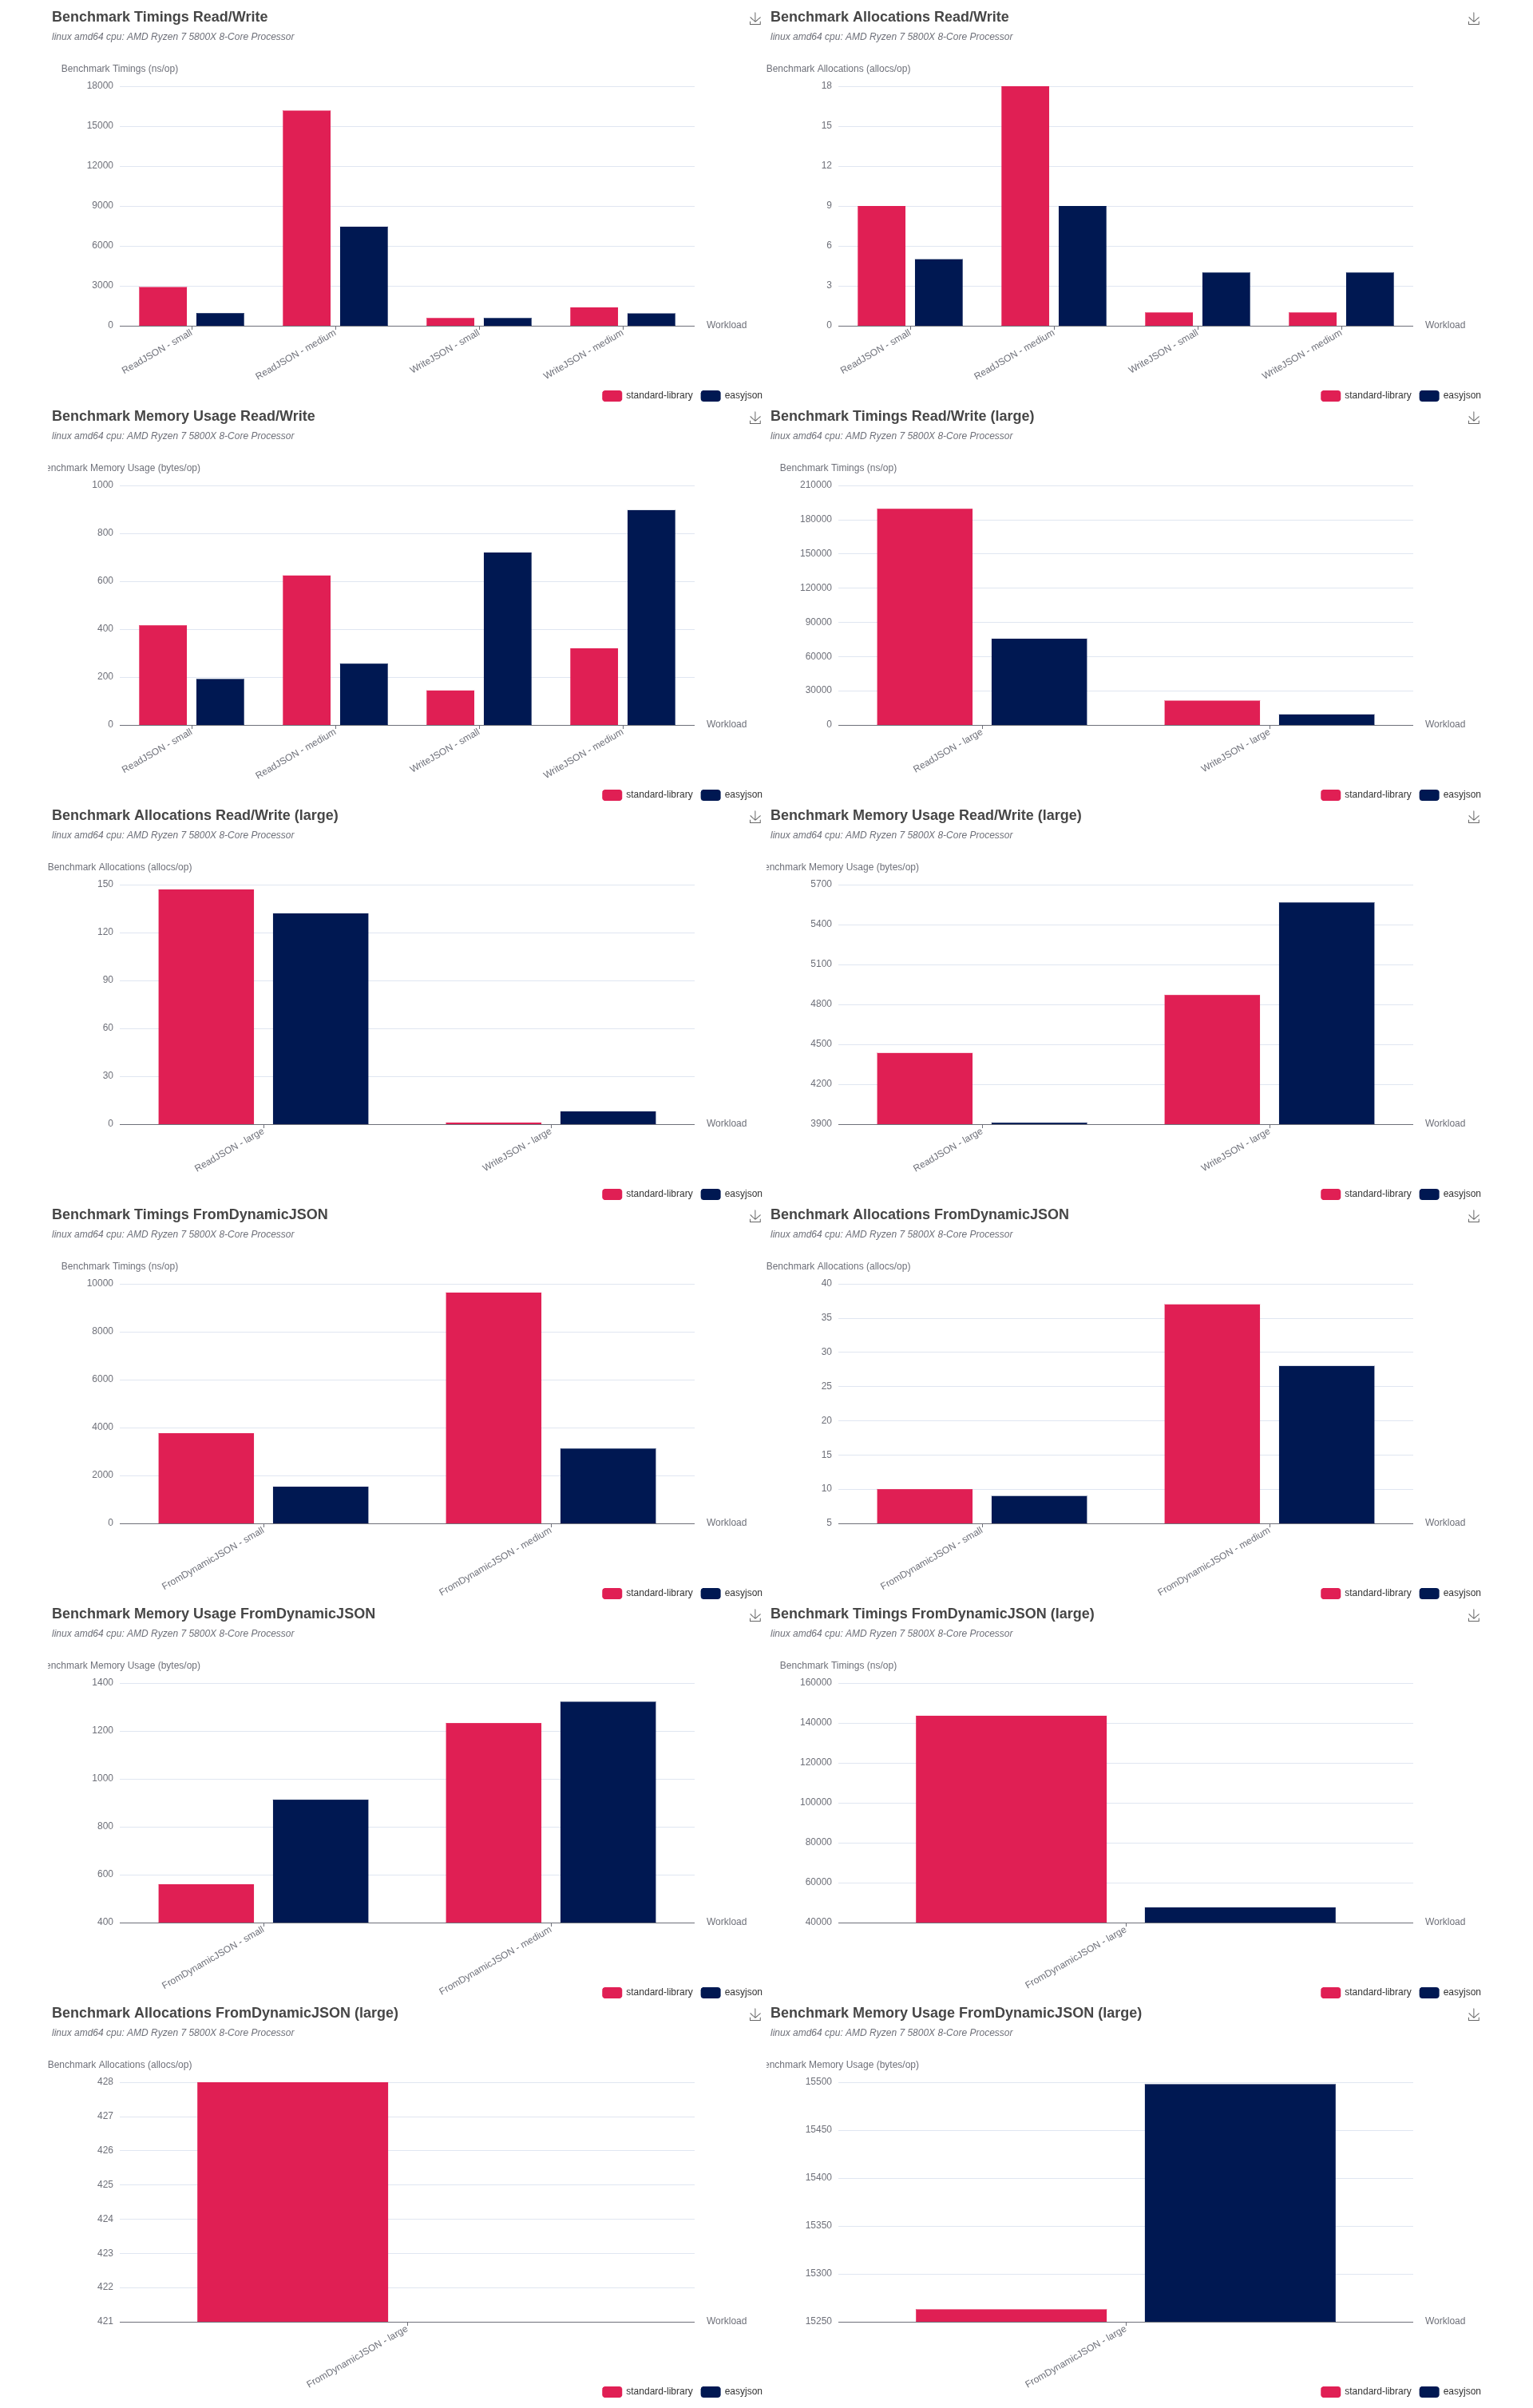
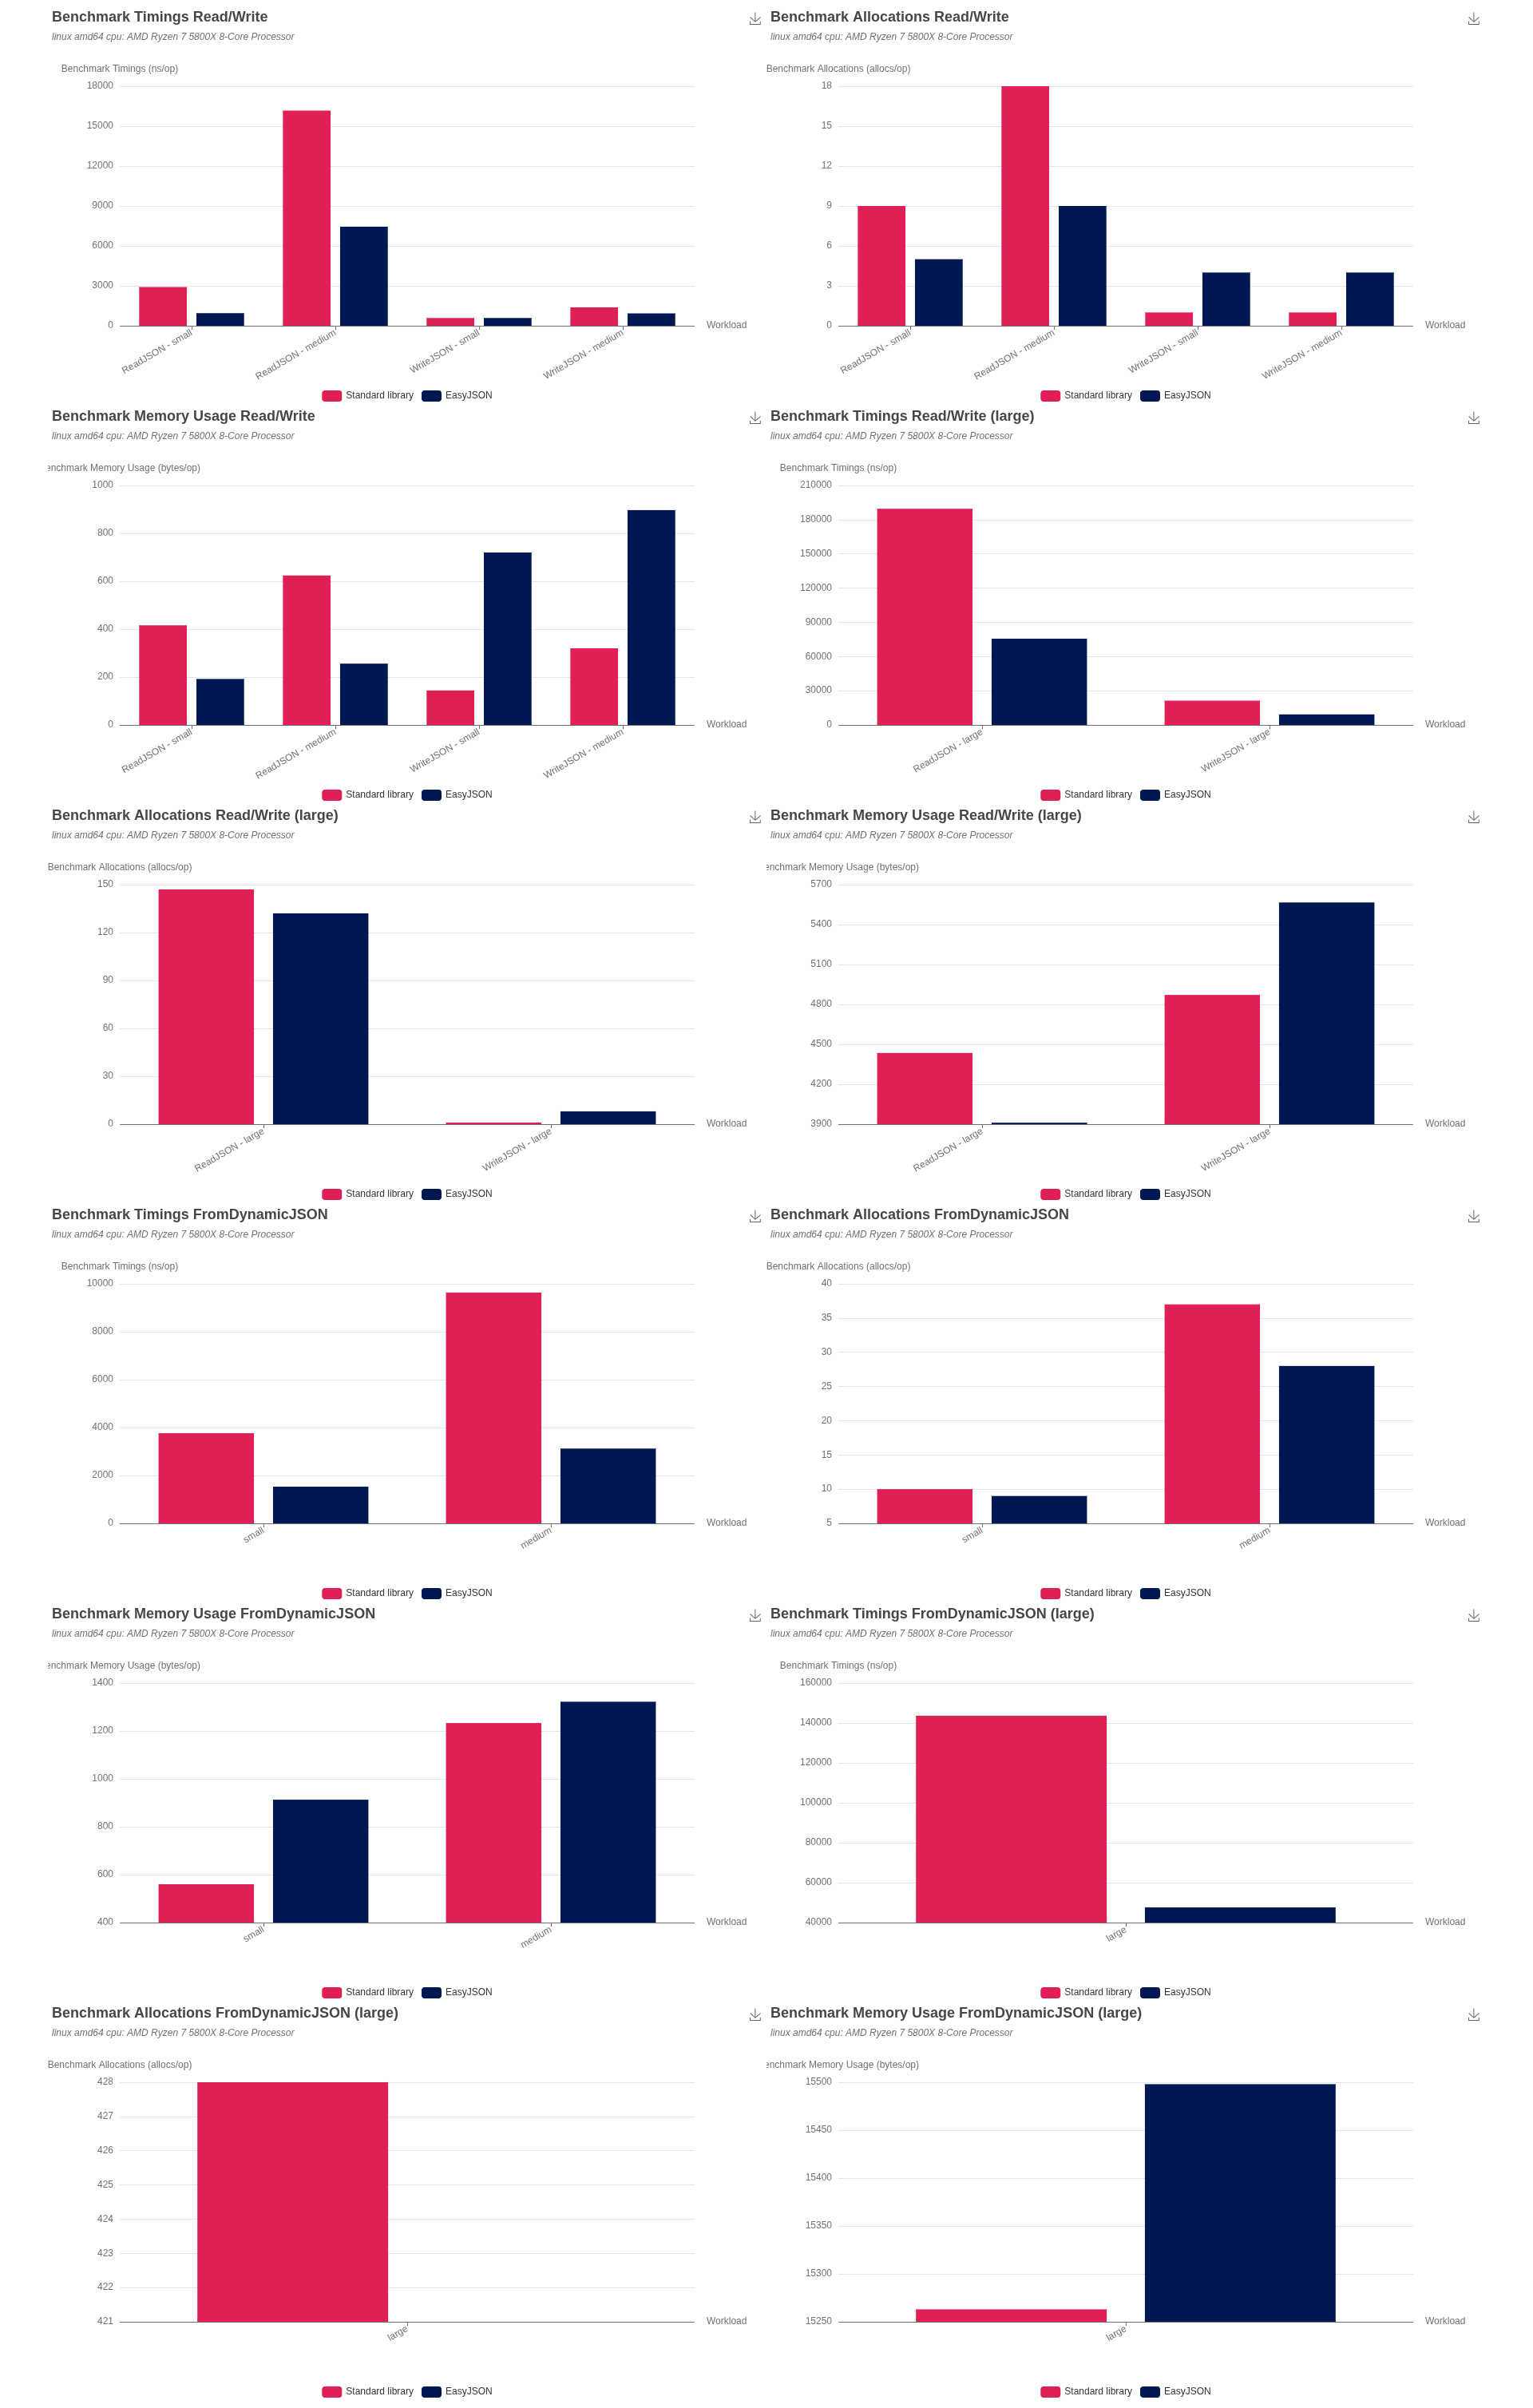
fix(chart): restore multi-chart page layout and wire HTML page title
Two regressions/gaps surfaced while refreshing the swag example:

- Layout: chartSize() emitted a percentage width ("50%") for the chart
  canvas. In the go-echarts flex-wrap page, each chart renders into an
  .item nested in a content-sized .container, so a percentage width has
  no definite basis and collapses — cramming every chart onto a single
  row. Emit concrete pixel dimensions instead, derived from a nominal
  page size chosen so the common horizontal:2 case keeps the historical
  900x500 canvas. Flex-wrap then packs charts per row responsively.

- Title: the render.title config field was defined but never used; the
  HTML <title> fell back to the empty scenario name and go-echarts'
  "Awesome go-echarts" default. Resolve the page title from render.title,
  then scenario name, then a "Benchmark results" default.

Also fix the 'Benchark' -> 'Benchmark' typo in the swag and testify
example configs, and regenerate the affected example outputs and
testintegration golden fixtures.

Changed region(s): [[0.6875, 0.9662, 0.7188, 0.9973], [0.2812, 0.8103, 0.3125, 0.8415], [0.2188, 0.9662, 0.25, 0.9973]]

diff --git a/examples/swag/benchmark-swag.html b/examples/swag/benchmark-swag.html
@@ -3,7 +3,7 @@
 <html>
 <head>
     <meta charset="utf-8">
-    <title>Awesome go-echarts</title>
+    <title>Benchmark</title>
     <script src="https://go-echarts.github.io/go-echarts-assets/assets/echarts.min.js"></script>
     <script src="https://go-echarts.github.io/go-echarts-assets/assets/themes/roma.js"></script>
 </head>
@@ -16,101 +16,101 @@
 
     <style> .box { justify-content:center; display:flex; flex-wrap:wrap } </style>
     <div class="box"> <div class="container">
-    <div class="item" id="tmHnABRtPIHv" style="width:900px;height:500px;"></div>
+    <div class="item" id="CwfvEJvdOMeL" style="width:900px;height:500px;"></div>
 </div><script type="text/javascript">
     "use strict";
-    let goecharts_tmHnABRtPIHv = echarts.init(document.getElementById('tmHnABRtPIHv'), "roma", { renderer: "canvas" });
-    let option_tmHnABRtPIHv = {"grid":[{"top":"100","bottom":"100"}],"legend":{"show":true,"x":"right","y":"bottom"},"series":[{"name":"standard-library","type":"bar","data":[{"name":"ReadJSON - small","value":2910},{"name":"ReadJSON - medium","value":16170},{"name":"WriteJSON - small","value":583.9},{"name":"WriteJSON - medium","value":1380}]},{"name":"easyjson","type":"bar","data":[{"name":"ReadJSON - small","value":947.3},{"name":"ReadJSON - medium","value":7445},{"name":"WriteJSON - small","value":581.7},{"name":"WriteJSON - medium","value":928.4}]}],"title":{"text":"Benchmark Timings Read/Write","subtext":"linux amd64 cpu: AMD Ryzen 7 5800X 8-Core Processor","subtextStyle":{"fontStyle":"italic","fontSize":12}},"toolbox":{"left":"right","feature":{"saveAsImage":{"title":"Save as image"}}},"tooltip":{"show":true,"trigger":"axis","axisPointer":{"type":"shadow"}},"xAxis":[{"position":"bottom","type":"category","name":"Workload","nameLocation":"end","data":["ReadJSON - small","ReadJSON - medium","WriteJSON - small","WriteJSON - medium"],"axisLabel":{"interval":"0","rotate":30,"showMinLabel":true,"showMaxLabel":true,"hideOverlap":false},"axisTick":{"alignWithLabel":true}}],"yAxis":[{"name":"Benchmark Timings (ns/op)","type":"value","scale":true,"axisLabel":{"formatter":function (value,index) { return value.toFixed(0).toString();},"showMinLabel":null,"showMaxLabel":null}}]}
+    let goecharts_CwfvEJvdOMeL = echarts.init(document.getElementById('CwfvEJvdOMeL'), "roma", { renderer: "canvas" });
+    let option_CwfvEJvdOMeL = {"grid":[{"top":"100","bottom":"100"}],"legend":{"show":true,"x":"center","y":"bottom"},"series":[{"name":"Standard library","type":"bar","data":[{"name":"ReadJSON - small","value":2910},{"name":"ReadJSON - medium","value":16170},{"name":"WriteJSON - small","value":583.9},{"name":"WriteJSON - medium","value":1380}]},{"name":"EasyJSON","type":"bar","data":[{"name":"ReadJSON - small","value":947.3},{"name":"ReadJSON - medium","value":7445},{"name":"WriteJSON - small","value":581.7},{"name":"WriteJSON - medium","value":928.4}]}],"title":{"text":"Benchmark Timings Read/Write","subtext":"linux amd64 cpu: AMD Ryzen 7 5800X 8-Core Processor","subtextStyle":{"fontStyle":"italic","fontSize":12}},"toolbox":{"left":"right","feature":{"saveAsImage":{"title":"Save as image"}}},"tooltip":{"show":true,"trigger":"axis","axisPointer":{"type":"shadow"}},"xAxis":[{"position":"bottom","type":"category","name":"Workload","nameLocation":"end","data":["ReadJSON - small","ReadJSON - medium","WriteJSON - small","WriteJSON - medium"],"axisLabel":{"interval":"0","rotate":30,"showMinLabel":true,"showMaxLabel":true,"hideOverlap":false},"axisTick":{"alignWithLabel":true}}],"yAxis":[{"name":"Benchmark Timings (ns/op)","type":"value","scale":true,"axisLabel":{"formatter":function (value,index) { return value.toFixed(0).toString();},"showMinLabel":null,"showMaxLabel":null}}]}
 
-    goecharts_tmHnABRtPIHv.setOption(option_tmHnABRtPIHv);
+    goecharts_CwfvEJvdOMeL.setOption(option_CwfvEJvdOMeL);
 </script> <div class="container">
-    <div class="item" id="ePgFDqNzhLOX" style="width:900px;height:500px;"></div>
+    <div class="item" id="zKRvGTAWRBSW" style="width:900px;height:500px;"></div>
 </div><script type="text/javascript">
     "use strict";
-    let goecharts_ePgFDqNzhLOX = echarts.init(document.getElementById('ePgFDqNzhLOX'), "roma", { renderer: "canvas" });
-    let option_ePgFDqNzhLOX = {"grid":[{"top":"100","bottom":"100"}],"legend":{"show":true,"x":"right","y":"bottom"},"series":[{"name":"standard-library","type":"bar","data":[{"name":"ReadJSON - small","value":9},{"name":"ReadJSON - medium","value":18},{"name":"WriteJSON - small","value":1},{"name":"WriteJSON - medium","value":1}]},{"name":"easyjson","type":"bar","data":[{"name":"ReadJSON - small","value":5},{"name":"ReadJSON - medium","value":9},{"name":"WriteJSON - small","value":4},{"name":"WriteJSON - medium","value":4}]}],"title":{"text":"Benchmark Allocations Read/Write","subtext":"linux amd64 cpu: AMD Ryzen 7 5800X 8-Core Processor","subtextStyle":{"fontStyle":"italic","fontSize":12}},"toolbox":{"left":"right","feature":{"saveAsImage":{"title":"Save as image"}}},"tooltip":{"show":true,"trigger":"axis","axisPointer":{"type":"shadow"}},"xAxis":[{"position":"bottom","type":"category","name":"Workload","nameLocation":"end","data":["ReadJSON - small","ReadJSON - medium","WriteJSON - small","WriteJSON - medium"],"axisLabel":{"interval":"0","rotate":30,"showMinLabel":true,"showMaxLabel":true,"hideOverlap":false},"axisTick":{"alignWithLabel":true}}],"yAxis":[{"name":"Benchmark Allocations (allocs/op)","type":"value","scale":true,"axisLabel":{"formatter":function (value,index) { return value.toFixed(0).toString();},"showMinLabel":null,"showMaxLabel":null}}]}
+    let goecharts_zKRvGTAWRBSW = echarts.init(document.getElementById('zKRvGTAWRBSW'), "roma", { renderer: "canvas" });
+    let option_zKRvGTAWRBSW = {"grid":[{"top":"100","bottom":"100"}],"legend":{"show":true,"x":"center","y":"bottom"},"series":[{"name":"Standard library","type":"bar","data":[{"name":"ReadJSON - small","value":9},{"name":"ReadJSON - medium","value":18},{"name":"WriteJSON - small","value":1},{"name":"WriteJSON - medium","value":1}]},{"name":"EasyJSON","type":"bar","data":[{"name":"ReadJSON - small","value":5},{"name":"ReadJSON - medium","value":9},{"name":"WriteJSON - small","value":4},{"name":"WriteJSON - medium","value":4}]}],"title":{"text":"Benchmark Allocations Read/Write","subtext":"linux amd64 cpu: AMD Ryzen 7 5800X 8-Core Processor","subtextStyle":{"fontStyle":"italic","fontSize":12}},"toolbox":{"left":"right","feature":{"saveAsImage":{"title":"Save as image"}}},"tooltip":{"show":true,"trigger":"axis","axisPointer":{"type":"shadow"}},"xAxis":[{"position":"bottom","type":"category","name":"Workload","nameLocation":"end","data":["ReadJSON - small","ReadJSON - medium","WriteJSON - small","WriteJSON - medium"],"axisLabel":{"interval":"0","rotate":30,"showMinLabel":true,"showMaxLabel":true,"hideOverlap":false},"axisTick":{"alignWithLabel":true}}],"yAxis":[{"name":"Benchmark Allocations (allocs/op)","type":"value","scale":true,"axisLabel":{"formatter":function (value,index) { return value.toFixed(0).toString();},"showMinLabel":null,"showMaxLabel":null}}]}
 
-    goecharts_ePgFDqNzhLOX.setOption(option_ePgFDqNzhLOX);
+    goecharts_zKRvGTAWRBSW.setOption(option_zKRvGTAWRBSW);
 </script> <div class="container">
-    <div class="item" id="mSREMTAiWSEV" style="width:900px;height:500px;"></div>
+    <div class="item" id="iGxhNVFQXiXn" style="width:900px;height:500px;"></div>
 </div><script type="text/javascript">
     "use strict";
-    let goecharts_mSREMTAiWSEV = echarts.init(document.getElementById('mSREMTAiWSEV'), "roma", { renderer: "canvas" });
-    let option_mSREMTAiWSEV = {"grid":[{"top":"100","bottom":"100"}],"legend":{"show":true,"x":"right","y":"bottom"},"series":[{"name":"standard-library","type":"bar","data":[{"name":"ReadJSON - small","value":416},{"name":"ReadJSON - medium","value":624},{"name":"WriteJSON - small","value":144},{"name":"WriteJSON - medium","value":320}]},{"name":"easyjson","type":"bar","data":[{"name":"ReadJSON - small","value":192},{"name":"ReadJSON - medium","value":256},{"name":"WriteJSON - small","value":720},{"name":"WriteJSON - medium","value":897}]}],"title":{"text":"Benchmark Memory Usage Read/Write","subtext":"linux amd64 cpu: AMD Ryzen 7 5800X 8-Core Processor","subtextStyle":{"fontStyle":"italic","fontSize":12}},"toolbox":{"left":"right","feature":{"saveAsImage":{"title":"Save as image"}}},"tooltip":{"show":true,"trigger":"axis","axisPointer":{"type":"shadow"}},"xAxis":[{"position":"bottom","type":"category","name":"Workload","nameLocation":"end","data":["ReadJSON - small","ReadJSON - medium","WriteJSON - small","WriteJSON - medium"],"axisLabel":{"interval":"0","rotate":30,"showMinLabel":true,"showMaxLabel":true,"hideOverlap":false},"axisTick":{"alignWithLabel":true}}],"yAxis":[{"name":"Benchmark Memory Usage (bytes/op)","type":"value","scale":true,"axisLabel":{"formatter":function (value,index) { return value.toFixed(0).toString();},"showMinLabel":null,"showMaxLabel":null}}]}
+    let goecharts_iGxhNVFQXiXn = echarts.init(document.getElementById('iGxhNVFQXiXn'), "roma", { renderer: "canvas" });
+    let option_iGxhNVFQXiXn = {"grid":[{"top":"100","bottom":"100"}],"legend":{"show":true,"x":"center","y":"bottom"},"series":[{"name":"Standard library","type":"bar","data":[{"name":"ReadJSON - small","value":416},{"name":"ReadJSON - medium","value":624},{"name":"WriteJSON - small","value":144},{"name":"WriteJSON - medium","value":320}]},{"name":"EasyJSON","type":"bar","data":[{"name":"ReadJSON - small","value":192},{"name":"ReadJSON - medium","value":256},{"name":"WriteJSON - small","value":720},{"name":"WriteJSON - medium","value":897}]}],"title":{"text":"Benchmark Memory Usage Read/Write","subtext":"linux amd64 cpu: AMD Ryzen 7 5800X 8-Core Processor","subtextStyle":{"fontStyle":"italic","fontSize":12}},"toolbox":{"left":"right","feature":{"saveAsImage":{"title":"Save as image"}}},"tooltip":{"show":true,"trigger":"axis","axisPointer":{"type":"shadow"}},"xAxis":[{"position":"bottom","type":"category","name":"Workload","nameLocation":"end","data":["ReadJSON - small","ReadJSON - medium","WriteJSON - small","WriteJSON - medium"],"axisLabel":{"interval":"0","rotate":30,"showMinLabel":true,"showMaxLabel":true,"hideOverlap":false},"axisTick":{"alignWithLabel":true}}],"yAxis":[{"name":"Benchmark Memory Usage (bytes/op)","type":"value","scale":true,"axisLabel":{"formatter":function (value,index) { return value.toFixed(0).toString();},"showMinLabel":null,"showMaxLabel":null}}]}
 
-    goecharts_mSREMTAiWSEV.setOption(option_mSREMTAiWSEV);
+    goecharts_iGxhNVFQXiXn.setOption(option_iGxhNVFQXiXn);
 </script> <div class="container">
-    <div class="item" id="RieMLKjOULCX" style="width:900px;height:500px;"></div>
+    <div class="item" id="xZUqHDWbVOFP" style="width:900px;height:500px;"></div>
 </div><script type="text/javascript">
     "use strict";
-    let goecharts_RieMLKjOULCX = echarts.init(document.getElementById('RieMLKjOULCX'), "roma", { renderer: "canvas" });
-    let option_RieMLKjOULCX = {"grid":[{"top":"100","bottom":"100"}],"legend":{"show":true,"x":"right","y":"bottom"},"series":[{"name":"standard-library","type":"bar","data":[{"name":"ReadJSON - large","value":189558},{"name":"WriteJSON - large","value":21347}]},{"name":"easyjson","type":"bar","data":[{"name":"ReadJSON - large","value":75641},{"name":"WriteJSON - large","value":9247}]}],"title":{"text":"Benchmark Timings Read/Write (large)","subtext":"linux amd64 cpu: AMD Ryzen 7 5800X 8-Core Processor","subtextStyle":{"fontStyle":"italic","fontSize":12}},"toolbox":{"left":"right","feature":{"saveAsImage":{"title":"Save as image"}}},"tooltip":{"show":true,"trigger":"axis","axisPointer":{"type":"shadow"}},"xAxis":[{"position":"bottom","type":"category","name":"Workload","nameLocation":"end","data":["ReadJSON - large","WriteJSON - large"],"axisLabel":{"interval":"0","rotate":30,"showMinLabel":true,"showMaxLabel":true,"hideOverlap":false},"axisTick":{"alignWithLabel":true}}],"yAxis":[{"name":"Benchmark Timings (ns/op)","type":"value","scale":true,"axisLabel":{"formatter":function (value,index) { return value.toFixed(0).toString();},"showMinLabel":null,"showMaxLabel":null}}]}
+    let goecharts_xZUqHDWbVOFP = echarts.init(document.getElementById('xZUqHDWbVOFP'), "roma", { renderer: "canvas" });
+    let option_xZUqHDWbVOFP = {"grid":[{"top":"100","bottom":"100"}],"legend":{"show":true,"x":"center","y":"bottom"},"series":[{"name":"Standard library","type":"bar","data":[{"name":"ReadJSON - large","value":189558},{"name":"WriteJSON - large","value":21347}]},{"name":"EasyJSON","type":"bar","data":[{"name":"ReadJSON - large","value":75641},{"name":"WriteJSON - large","value":9247}]}],"title":{"text":"Benchmark Timings Read/Write (large)","subtext":"linux amd64 cpu: AMD Ryzen 7 5800X 8-Core Processor","subtextStyle":{"fontStyle":"italic","fontSize":12}},"toolbox":{"left":"right","feature":{"saveAsImage":{"title":"Save as image"}}},"tooltip":{"show":true,"trigger":"axis","axisPointer":{"type":"shadow"}},"xAxis":[{"position":"bottom","type":"category","name":"Workload","nameLocation":"end","data":["ReadJSON - large","WriteJSON - large"],"axisLabel":{"interval":"0","rotate":30,"showMinLabel":true,"showMaxLabel":true,"hideOverlap":false},"axisTick":{"alignWithLabel":true}}],"yAxis":[{"name":"Benchmark Timings (ns/op)","type":"value","scale":true,"axisLabel":{"formatter":function (value,index) { return value.toFixed(0).toString();},"showMinLabel":null,"showMaxLabel":null}}]}
 
-    goecharts_RieMLKjOULCX.setOption(option_RieMLKjOULCX);
+    goecharts_xZUqHDWbVOFP.setOption(option_xZUqHDWbVOFP);
 </script> <div class="container">
-    <div class="item" id="ICTXqWwDbEQA" style="width:900px;height:500px;"></div>
+    <div class="item" id="ZhPDPfcDyVBC" style="width:900px;height:500px;"></div>
 </div><script type="text/javascript">
     "use strict";
-    let goecharts_ICTXqWwDbEQA = echarts.init(document.getElementById('ICTXqWwDbEQA'), "roma", { renderer: "canvas" });
-    let option_ICTXqWwDbEQA = {"grid":[{"top":"100","bottom":"100"}],"legend":{"show":true,"x":"right","y":"bottom"},"series":[{"name":"standard-library","type":"bar","data":[{"name":"ReadJSON - large","value":147},{"name":"WriteJSON - large","value":1}]},{"name":"easyjson","type":"bar","data":[{"name":"ReadJSON - large","value":132},{"name":"WriteJSON - large","value":8}]}],"title":{"text":"Benchmark Allocations Read/Write (large)","subtext":"linux amd64 cpu: AMD Ryzen 7 5800X 8-Core Processor","subtextStyle":{"fontStyle":"italic","fontSize":12}},"toolbox":{"left":"right","feature":{"saveAsImage":{"title":"Save as image"}}},"tooltip":{"show":true,"trigger":"axis","axisPointer":{"type":"shadow"}},"xAxis":[{"position":"bottom","type":"category","name":"Workload","nameLocation":"end","data":["ReadJSON - large","WriteJSON - large"],"axisLabel":{"interval":"0","rotate":30,"showMinLabel":true,"showMaxLabel":true,"hideOverlap":false},"axisTick":{"alignWithLabel":true}}],"yAxis":[{"name":"Benchmark Allocations (allocs/op)","type":"value","scale":true,"axisLabel":{"formatter":function (value,index) { return value.toFixed(0).toString();},"showMinLabel":null,"showMaxLabel":null}}]}
+    let goecharts_ZhPDPfcDyVBC = echarts.init(document.getElementById('ZhPDPfcDyVBC'), "roma", { renderer: "canvas" });
+    let option_ZhPDPfcDyVBC = {"grid":[{"top":"100","bottom":"100"}],"legend":{"show":true,"x":"center","y":"bottom"},"series":[{"name":"Standard library","type":"bar","data":[{"name":"ReadJSON - large","value":147},{"name":"WriteJSON - large","value":1}]},{"name":"EasyJSON","type":"bar","data":[{"name":"ReadJSON - large","value":132},{"name":"WriteJSON - large","value":8}]}],"title":{"text":"Benchmark Allocations Read/Write (large)","subtext":"linux amd64 cpu: AMD Ryzen 7 5800X 8-Core Processor","subtextStyle":{"fontStyle":"italic","fontSize":12}},"toolbox":{"left":"right","feature":{"saveAsImage":{"title":"Save as image"}}},"tooltip":{"show":true,"trigger":"axis","axisPointer":{"type":"shadow"}},"xAxis":[{"position":"bottom","type":"category","name":"Workload","nameLocation":"end","data":["ReadJSON - large","WriteJSON - large"],"axisLabel":{"interval":"0","rotate":30,"showMinLabel":true,"showMaxLabel":true,"hideOverlap":false},"axisTick":{"alignWithLabel":true}}],"yAxis":[{"name":"Benchmark Allocations (allocs/op)","type":"value","scale":true,"axisLabel":{"formatter":function (value,index) { return value.toFixed(0).toString();},"showMinLabel":null,"showMaxLabel":null}}]}
 
-    goecharts_ICTXqWwDbEQA.setOption(option_ICTXqWwDbEQA);
+    goecharts_ZhPDPfcDyVBC.setOption(option_ZhPDPfcDyVBC);
 </script> <div class="container">
-    <div class="item" id="LrPRlqEyxjEm" style="width:900px;height:500px;"></div>
+    <div class="item" id="ZejdJdkWMeMK" style="width:900px;height:500px;"></div>
 </div><script type="text/javascript">
     "use strict";
-    let goecharts_LrPRlqEyxjEm = echarts.init(document.getElementById('LrPRlqEyxjEm'), "roma", { renderer: "canvas" });
-    let option_LrPRlqEyxjEm = {"grid":[{"top":"100","bottom":"100"}],"legend":{"show":true,"x":"right","y":"bottom"},"series":[{"name":"standard-library","type":"bar","data":[{"name":"ReadJSON - large","value":4435},{"name":"WriteJSON - large","value":4871}]},{"name":"easyjson","type":"bar","data":[{"name":"ReadJSON - large","value":3911},{"name":"WriteJSON - large","value":5566}]}],"title":{"text":"Benchmark Memory Usage Read/Write (large)","subtext":"linux amd64 cpu: AMD Ryzen 7 5800X 8-Core Processor","subtextStyle":{"fontStyle":"italic","fontSize":12}},"toolbox":{"left":"right","feature":{"saveAsImage":{"title":"Save as image"}}},"tooltip":{"show":true,"trigger":"axis","axisPointer":{"type":"shadow"}},"xAxis":[{"position":"bottom","type":"category","name":"Workload","nameLocation":"end","data":["ReadJSON - large","WriteJSON - large"],"axisLabel":{"interval":"0","rotate":30,"showMinLabel":true,"showMaxLabel":true,"hideOverlap":false},"axisTick":{"alignWithLabel":true}}],"yAxis":[{"name":"Benchmark Memory Usage (bytes/op)","type":"value","scale":true,"axisLabel":{"formatter":function (value,index) { return value.toFixed(0).toString();},"showMinLabel":null,"showMaxLabel":null}}]}
+    let goecharts_ZejdJdkWMeMK = echarts.init(document.getElementById('ZejdJdkWMeMK'), "roma", { renderer: "canvas" });
+    let option_ZejdJdkWMeMK = {"grid":[{"top":"100","bottom":"100"}],"legend":{"show":true,"x":"center","y":"bottom"},"series":[{"name":"Standard library","type":"bar","data":[{"name":"ReadJSON - large","value":4435},{"name":"WriteJSON - large","value":4871}]},{"name":"EasyJSON","type":"bar","data":[{"name":"ReadJSON - large","value":3911},{"name":"WriteJSON - large","value":5566}]}],"title":{"text":"Benchmark Memory Usage Read/Write (large)","subtext":"linux amd64 cpu: AMD Ryzen 7 5800X 8-Core Processor","subtextStyle":{"fontStyle":"italic","fontSize":12}},"toolbox":{"left":"right","feature":{"saveAsImage":{"title":"Save as image"}}},"tooltip":{"show":true,"trigger":"axis","axisPointer":{"type":"shadow"}},"xAxis":[{"position":"bottom","type":"category","name":"Workload","nameLocation":"end","data":["ReadJSON - large","WriteJSON - large"],"axisLabel":{"interval":"0","rotate":30,"showMinLabel":true,"showMaxLabel":true,"hideOverlap":false},"axisTick":{"alignWithLabel":true}}],"yAxis":[{"name":"Benchmark Memory Usage (bytes/op)","type":"value","scale":true,"axisLabel":{"formatter":function (value,index) { return value.toFixed(0).toString();},"showMinLabel":null,"showMaxLabel":null}}]}
 
-    goecharts_LrPRlqEyxjEm.setOption(option_LrPRlqEyxjEm);
+    goecharts_ZejdJdkWMeMK.setOption(option_ZejdJdkWMeMK);
 </script> <div class="container">
-    <div class="item" id="CWLUqoIHMFvJ" style="width:900px;height:500px;"></div>
+    <div class="item" id="BZfUiexhqaLA" style="width:900px;height:500px;"></div>
 </div><script type="text/javascript">
     "use strict";
-    let goecharts_CWLUqoIHMFvJ = echarts.init(document.getElementById('CWLUqoIHMFvJ'), "roma", { renderer: "canvas" });
-    let option_CWLUqoIHMFvJ = {"grid":[{"top":"100","bottom":"100"}],"legend":{"show":true,"x":"right","y":"bottom"},"series":[{"name":"standard-library","type":"bar","data":[{"name":"FromDynamicJSON - small","value":3765},{"name":"FromDynamicJSON - medium","value":9636}]},{"name":"easyjson","type":"bar","data":[{"name":"FromDynamicJSON - small","value":1532},{"name":"FromDynamicJSON - medium","value":3123}]}],"title":{"text":"Benchmark Timings FromDynamicJSON","subtext":"linux amd64 cpu: AMD Ryzen 7 5800X 8-Core Processor","subtextStyle":{"fontStyle":"italic","fontSize":12}},"toolbox":{"left":"right","feature":{"saveAsImage":{"title":"Save as image"}}},"tooltip":{"show":true,"trigger":"axis","axisPointer":{"type":"shadow"}},"xAxis":[{"position":"bottom","type":"category","name":"Workload","nameLocation":"end","data":["FromDynamicJSON - small","FromDynamicJSON - medium"],"axisLabel":{"interval":"0","rotate":30,"showMinLabel":true,"showMaxLabel":true,"hideOverlap":false},"axisTick":{"alignWithLabel":true}}],"yAxis":[{"name":"Benchmark Timings (ns/op)","type":"value","scale":true,"axisLabel":{"formatter":function (value,index) { return value.toFixed(0).toString();},"showMinLabel":null,"showMaxLabel":null}}]}
+    let goecharts_BZfUiexhqaLA = echarts.init(document.getElementById('BZfUiexhqaLA'), "roma", { renderer: "canvas" });
+    let option_BZfUiexhqaLA = {"grid":[{"top":"100","bottom":"100"}],"legend":{"show":true,"x":"center","y":"bottom"},"series":[{"name":"Standard library","type":"bar","data":[{"name":"small","value":3765},{"name":"medium","value":9636}]},{"name":"EasyJSON","type":"bar","data":[{"name":"small","value":1532},{"name":"medium","value":3123}]}],"title":{"text":"Benchmark Timings FromDynamicJSON","subtext":"linux amd64 cpu: AMD Ryzen 7 5800X 8-Core Processor","subtextStyle":{"fontStyle":"italic","fontSize":12}},"toolbox":{"left":"right","feature":{"saveAsImage":{"title":"Save as image"}}},"tooltip":{"show":true,"trigger":"axis","axisPointer":{"type":"shadow"}},"xAxis":[{"position":"bottom","type":"category","name":"Workload","nameLocation":"end","data":["small","medium"],"axisLabel":{"interval":"0","rotate":30,"showMinLabel":true,"showMaxLabel":true,"hideOverlap":false},"axisTick":{"alignWithLabel":true}}],"yAxis":[{"name":"Benchmark Timings (ns/op)","type":"value","scale":true,"axisLabel":{"formatter":function (value,index) { return value.toFixed(0).toString();},"showMinLabel":null,"showMaxLabel":null}}]}
 
-    goecharts_CWLUqoIHMFvJ.setOption(option_CWLUqoIHMFvJ);
+    goecharts_BZfUiexhqaLA.setOption(option_BZfUiexhqaLA);
 </script> <div class="container">
-    <div class="item" id="GUdWePVESdtf" style="width:900px;height:500px;"></div>
+    <div class="item" id="kucodcSyIyeM" style="width:900px;height:500px;"></div>
 </div><script type="text/javascript">
     "use strict";
-    let goecharts_GUdWePVESdtf = echarts.init(document.getElementById('GUdWePVESdtf'), "roma", { renderer: "canvas" });
-    let option_GUdWePVESdtf = {"grid":[{"top":"100","bottom":"100"}],"legend":{"show":true,"x":"right","y":"bottom"},"series":[{"name":"standard-library","type":"bar","data":[{"name":"FromDynamicJSON - small","value":10},{"name":"FromDynamicJSON - medium","value":37}]},{"name":"easyjson","type":"bar","data":[{"name":"FromDynamicJSON - small","value":9},{"name":"FromDynamicJSON - medium","value":28}]}],"title":{"text":"Benchmark Allocations FromDynamicJSON","subtext":"linux amd64 cpu: AMD Ryzen 7 5800X 8-Core Processor","subtextStyle":{"fontStyle":"italic","fontSize":12}},"toolbox":{"left":"right","feature":{"saveAsImage":{"title":"Save as image"}}},"tooltip":{"show":true,"trigger":"axis","axisPointer":{"type":"shadow"}},"xAxis":[{"position":"bottom","type":"category","name":"Workload","nameLocation":"end","data":["FromDynamicJSON - small","FromDynamicJSON - medium"],"axisLabel":{"interval":"0","rotate":30,"showMinLabel":true,"showMaxLabel":true,"hideOverlap":false},"axisTick":{"alignWithLabel":true}}],"yAxis":[{"name":"Benchmark Allocations (allocs/op)","type":"value","scale":true,"axisLabel":{"formatter":function (value,index) { return value.toFixed(0).toString();},"showMinLabel":null,"showMaxLabel":null}}]}
+    let goecharts_kucodcSyIyeM = echarts.init(document.getElementById('kucodcSyIyeM'), "roma", { renderer: "canvas" });
+    let option_kucodcSyIyeM = {"grid":[{"top":"100","bottom":"100"}],"legend":{"show":true,"x":"center","y":"bottom"},"series":[{"name":"Standard library","type":"bar","data":[{"name":"small","value":10},{"name":"medium","value":37}]},{"name":"EasyJSON","type":"bar","data":[{"name":"small","value":9},{"name":"medium","value":28}]}],"title":{"text":"Benchmark Allocations FromDynamicJSON","subtext":"linux amd64 cpu: AMD Ryzen 7 5800X 8-Core Processor","subtextStyle":{"fontStyle":"italic","fontSize":12}},"toolbox":{"left":"right","feature":{"saveAsImage":{"title":"Save as image"}}},"tooltip":{"show":true,"trigger":"axis","axisPointer":{"type":"shadow"}},"xAxis":[{"position":"bottom","type":"category","name":"Workload","nameLocation":"end","data":["small","medium"],"axisLabel":{"interval":"0","rotate":30,"showMinLabel":true,"showMaxLabel":true,"hideOverlap":false},"axisTick":{"alignWithLabel":true}}],"yAxis":[{"name":"Benchmark Allocations (allocs/op)","type":"value","scale":true,"axisLabel":{"formatter":function (value,index) { return value.toFixed(0).toString();},"showMinLabel":null,"showMaxLabel":null}}]}
 
-    goecharts_GUdWePVESdtf.setOption(option_GUdWePVESdtf);
+    goecharts_kucodcSyIyeM.setOption(option_kucodcSyIyeM);
 </script> <div class="container">
-    <div class="item" id="WpXXICJBVEpG" style="width:900px;height:500px;"></div>
+    <div class="item" id="AiYPmgQtCNxX" style="width:900px;height:500px;"></div>
 </div><script type="text/javascript">
     "use strict";
-    let goecharts_WpXXICJBVEpG = echarts.init(document.getElementById('WpXXICJBVEpG'), "roma", { renderer: "canvas" });
-    let option_WpXXICJBVEpG = {"grid":[{"top":"100","bottom":"100"}],"legend":{"show":true,"x":"right","y":"bottom"},"series":[{"name":"standard-library","type":"bar","data":[{"name":"FromDynamicJSON - small","value":560},{"name":"FromDynamicJSON - medium","value":1233}]},{"name":"easyjson","type":"bar","data":[{"name":"FromDynamicJSON - small","value":913},{"name":"FromDynamicJSON - medium","value":1322}]}],"title":{"text":"Benchmark Memory Usage FromDynamicJSON","subtext":"linux amd64 cpu: AMD Ryzen 7 5800X 8-Core Processor","subtextStyle":{"fontStyle":"italic","fontSize":12}},"toolbox":{"left":"right","feature":{"saveAsImage":{"title":"Save as image"}}},"tooltip":{"show":true,"trigger":"axis","axisPointer":{"type":"shadow"}},"xAxis":[{"position":"bottom","type":"category","name":"Workload","nameLocation":"end","data":["FromDynamicJSON - small","FromDynamicJSON - medium"],"axisLabel":{"interval":"0","rotate":30,"showMinLabel":true,"showMaxLabel":true,"hideOverlap":false},"axisTick":{"alignWithLabel":true}}],"yAxis":[{"name":"Benchmark Memory Usage (bytes/op)","type":"value","scale":true,"axisLabel":{"formatter":function (value,index) { return value.toFixed(0).toString();},"showMinLabel":null,"showMaxLabel":null}}]}
+    let goecharts_AiYPmgQtCNxX = echarts.init(document.getElementById('AiYPmgQtCNxX'), "roma", { renderer: "canvas" });
+    let option_AiYPmgQtCNxX = {"grid":[{"top":"100","bottom":"100"}],"legend":{"show":true,"x":"center","y":"bottom"},"series":[{"name":"Standard library","type":"bar","data":[{"name":"small","value":560},{"name":"medium","value":1233}]},{"name":"EasyJSON","type":"bar","data":[{"name":"small","value":913},{"name":"medium","value":1322}]}],"title":{"text":"Benchmark Memory Usage FromDynamicJSON","subtext":"linux amd64 cpu: AMD Ryzen 7 5800X 8-Core Processor","subtextStyle":{"fontStyle":"italic","fontSize":12}},"toolbox":{"left":"right","feature":{"saveAsImage":{"title":"Save as image"}}},"tooltip":{"show":true,"trigger":"axis","axisPointer":{"type":"shadow"}},"xAxis":[{"position":"bottom","type":"category","name":"Workload","nameLocation":"end","data":["small","medium"],"axisLabel":{"interval":"0","rotate":30,"showMinLabel":true,"showMaxLabel":true,"hideOverlap":false},"axisTick":{"alignWithLabel":true}}],"yAxis":[{"name":"Benchmark Memory Usage (bytes/op)","type":"value","scale":true,"axisLabel":{"formatter":function (value,index) { return value.toFixed(0).toString();},"showMinLabel":null,"showMaxLabel":null}}]}
 
-    goecharts_WpXXICJBVEpG.setOption(option_WpXXICJBVEpG);
+    goecharts_AiYPmgQtCNxX.setOption(option_AiYPmgQtCNxX);
 </script> <div class="container">
-    <div class="item" id="xgVrLTbYoduN" style="width:900px;height:500px;"></div>
+    <div class="item" id="PFXwkPoPNYPn" style="width:900px;height:500px;"></div>
 </div><script type="text/javascript">
     "use strict";
-    let goecharts_xgVrLTbYoduN = echarts.init(document.getElementById('xgVrLTbYoduN'), "roma", { renderer: "canvas" });
-    let option_xgVrLTbYoduN = {"grid":[{"top":"100","bottom":"100"}],"legend":{"show":true,"x":"right","y":"bottom"},"series":[{"name":"standard-library","type":"bar","data":[{"name":"FromDynamicJSON - large","value":143619}]},{"name":"easyjson","type":"bar","data":[{"name":"FromDynamicJSON - large","value":47601}]}],"title":{"text":"Benchmark Timings FromDynamicJSON (large)","subtext":"linux amd64 cpu: AMD Ryzen 7 5800X 8-Core Processor","subtextStyle":{"fontStyle":"italic","fontSize":12}},"toolbox":{"left":"right","feature":{"saveAsImage":{"title":"Save as image"}}},"tooltip":{"show":true,"trigger":"axis","axisPointer":{"type":"shadow"}},"xAxis":[{"position":"bottom","type":"category","name":"Workload","nameLocation":"end","data":["FromDynamicJSON - large"],"axisLabel":{"interval":"0","rotate":30,"showMinLabel":true,"showMaxLabel":true,"hideOverlap":false},"axisTick":{"alignWithLabel":true}}],"yAxis":[{"name":"Benchmark Timings (ns/op)","type":"value","scale":true,"axisLabel":{"formatter":function (value,index) { return value.toFixed(0).toString();},"showMinLabel":null,"showMaxLabel":null}}]}
+    let goecharts_PFXwkPoPNYPn = echarts.init(document.getElementById('PFXwkPoPNYPn'), "roma", { renderer: "canvas" });
+    let option_PFXwkPoPNYPn = {"grid":[{"top":"100","bottom":"100"}],"legend":{"show":true,"x":"center","y":"bottom"},"series":[{"name":"Standard library","type":"bar","data":[{"name":"large","value":143619}]},{"name":"EasyJSON","type":"bar","data":[{"name":"large","value":47601}]}],"title":{"text":"Benchmark Timings FromDynamicJSON (large)","subtext":"linux amd64 cpu: AMD Ryzen 7 5800X 8-Core Processor","subtextStyle":{"fontStyle":"italic","fontSize":12}},"toolbox":{"left":"right","feature":{"saveAsImage":{"title":"Save as image"}}},"tooltip":{"show":true,"trigger":"axis","axisPointer":{"type":"shadow"}},"xAxis":[{"position":"bottom","type":"category","name":"Workload","nameLocation":"end","data":["large"],"axisLabel":{"interval":"0","rotate":30,"showMinLabel":true,"showMaxLabel":true,"hideOverlap":false},"axisTick":{"alignWithLabel":true}}],"yAxis":[{"name":"Benchmark Timings (ns/op)","type":"value","scale":true,"axisLabel":{"formatter":function (value,index) { return value.toFixed(0).toString();},"showMinLabel":null,"showMaxLabel":null}}]}
 
-    goecharts_xgVrLTbYoduN.setOption(option_xgVrLTbYoduN);
+    goecharts_PFXwkPoPNYPn.setOption(option_PFXwkPoPNYPn);
 </script> <div class="container">
-    <div class="item" id="eeFqaTvVQLqq" style="width:900px;height:500px;"></div>
+    <div class="item" id="oEFgphTruszl" style="width:900px;height:500px;"></div>
 </div><script type="text/javascript">
     "use strict";
-    let goecharts_eeFqaTvVQLqq = echarts.init(document.getElementById('eeFqaTvVQLqq'), "roma", { renderer: "canvas" });
-    let option_eeFqaTvVQLqq = {"grid":[{"top":"100","bottom":"100"}],"legend":{"show":true,"x":"right","y":"bottom"},"series":[{"name":"standard-library","type":"bar","data":[{"name":"FromDynamicJSON - large","value":428}]},{"name":"easyjson","type":"bar","data":[{"name":"FromDynamicJSON - large","value":421}]}],"title":{"text":"Benchmark Allocations FromDynamicJSON (large)","subtext":"linux amd64 cpu: AMD Ryzen 7 5800X 8-Core Processor","subtextStyle":{"fontStyle":"italic","fontSize":12}},"toolbox":{"left":"right","feature":{"saveAsImage":{"title":"Save as image"}}},"tooltip":{"show":true,"trigger":"axis","axisPointer":{"type":"shadow"}},"xAxis":[{"position":"bottom","type":"category","name":"Workload","nameLocation":"end","data":["FromDynamicJSON - large"],"axisLabel":{"interval":"0","rotate":30,"showMinLabel":true,"showMaxLabel":true,"hideOverlap":false},"axisTick":{"alignWithLabel":true}}],"yAxis":[{"name":"Benchmark Allocations (allocs/op)","type":"value","scale":true,"axisLabel":{"formatter":function (value,index) { return value.toFixed(0).toString();},"showMinLabel":null,"showMaxLabel":null}}]}
+    let goecharts_oEFgphTruszl = echarts.init(document.getElementById('oEFgphTruszl'), "roma", { renderer: "canvas" });
+    let option_oEFgphTruszl = {"grid":[{"top":"100","bottom":"100"}],"legend":{"show":true,"x":"center","y":"bottom"},"series":[{"name":"Standard library","type":"bar","data":[{"name":"large","value":428}]},{"name":"EasyJSON","type":"bar","data":[{"name":"large","value":421}]}],"title":{"text":"Benchmark Allocations FromDynamicJSON (large)","subtext":"linux amd64 cpu: AMD Ryzen 7 5800X 8-Core Processor","subtextStyle":{"fontStyle":"italic","fontSize":12}},"toolbox":{"left":"right","feature":{"saveAsImage":{"title":"Save as image"}}},"tooltip":{"show":true,"trigger":"axis","axisPointer":{"type":"shadow"}},"xAxis":[{"position":"bottom","type":"category","name":"Workload","nameLocation":"end","data":["large"],"axisLabel":{"interval":"0","rotate":30,"showMinLabel":true,"showMaxLabel":true,"hideOverlap":false},"axisTick":{"alignWithLabel":true}}],"yAxis":[{"name":"Benchmark Allocations (allocs/op)","type":"value","scale":true,"axisLabel":{"formatter":function (value,index) { return value.toFixed(0).toString();},"showMinLabel":null,"showMaxLabel":null}}]}
 
-    goecharts_eeFqaTvVQLqq.setOption(option_eeFqaTvVQLqq);
+    goecharts_oEFgphTruszl.setOption(option_oEFgphTruszl);
 </script> <div class="container">
-    <div class="item" id="HwWhBkTMCWwA" style="width:900px;height:500px;"></div>
+    <div class="item" id="LehsncRSoRGF" style="width:900px;height:500px;"></div>
 </div><script type="text/javascript">
     "use strict";
-    let goecharts_HwWhBkTMCWwA = echarts.init(document.getElementById('HwWhBkTMCWwA'), "roma", { renderer: "canvas" });
-    let option_HwWhBkTMCWwA = {"grid":[{"top":"100","bottom":"100"}],"legend":{"show":true,"x":"right","y":"bottom"},"series":[{"name":"standard-library","type":"bar","data":[{"name":"FromDynamicJSON - large","value":15263}]},{"name":"easyjson","type":"bar","data":[{"name":"FromDynamicJSON - large","value":15498}]}],"title":{"text":"Benchmark Memory Usage FromDynamicJSON (large)","subtext":"linux amd64 cpu: AMD Ryzen 7 5800X 8-Core Processor","subtextStyle":{"fontStyle":"italic","fontSize":12}},"toolbox":{"left":"right","feature":{"saveAsImage":{"title":"Save as image"}}},"tooltip":{"show":true,"trigger":"axis","axisPointer":{"type":"shadow"}},"xAxis":[{"position":"bottom","type":"category","name":"Workload","nameLocation":"end","data":["FromDynamicJSON - large"],"axisLabel":{"interval":"0","rotate":30,"showMinLabel":true,"showMaxLabel":true,"hideOverlap":false},"axisTick":{"alignWithLabel":true}}],"yAxis":[{"name":"Benchmark Memory Usage (bytes/op)","type":"value","scale":true,"axisLabel":{"formatter":function (value,index) { return value.toFixed(0).toString();},"showMinLabel":null,"showMaxLabel":null}}]}
+    let goecharts_LehsncRSoRGF = echarts.init(document.getElementById('LehsncRSoRGF'), "roma", { renderer: "canvas" });
+    let option_LehsncRSoRGF = {"grid":[{"top":"100","bottom":"100"}],"legend":{"show":true,"x":"center","y":"bottom"},"series":[{"name":"Standard library","type":"bar","data":[{"name":"large","value":15263}]},{"name":"EasyJSON","type":"bar","data":[{"name":"large","value":15498}]}],"title":{"text":"Benchmark Memory Usage FromDynamicJSON (large)","subtext":"linux amd64 cpu: AMD Ryzen 7 5800X 8-Core Processor","subtextStyle":{"fontStyle":"italic","fontSize":12}},"toolbox":{"left":"right","feature":{"saveAsImage":{"title":"Save as image"}}},"tooltip":{"show":true,"trigger":"axis","axisPointer":{"type":"shadow"}},"xAxis":[{"position":"bottom","type":"category","name":"Workload","nameLocation":"end","data":["large"],"axisLabel":{"interval":"0","rotate":30,"showMinLabel":true,"showMaxLabel":true,"hideOverlap":false},"axisTick":{"alignWithLabel":true}}],"yAxis":[{"name":"Benchmark Memory Usage (bytes/op)","type":"value","scale":true,"axisLabel":{"formatter":function (value,index) { return value.toFixed(0).toString();},"showMinLabel":null,"showMaxLabel":null}}]}
 
-    goecharts_HwWhBkTMCWwA.setOption(option_HwWhBkTMCWwA);
+    goecharts_LehsncRSoRGF.setOption(option_LehsncRSoRGF);
 </script> </div>
 
 

diff --git a/internal/chart/builder.go b/internal/chart/builder.go
@@ -26,9 +26,13 @@ func New(cfg *config.Config, scenario *model.Scenario) *Builder {
 	}
 }
 
+// defaultPageTitle is the HTML <title> used when neither render.title nor the
+// scenario name is configured (avoids go-echarts' "Awesome go-echarts" default).
+const defaultPageTitle = "Benchmark results"
+
 // BuildPage creates a page with all charts for all metrics and categories.
 func (b *Builder) BuildPage() *Page {
-	page := NewPage(b.scenario.Name)
+	page := NewPage(b.pageTitle())
 
 	for _, category := range b.scenario.Categories {
 		for _, metric := range category.Metrics() {
@@ -47,6 +51,20 @@ func (b *Builder) BuildPage() *Page {
 	b.l.Info("added charts", slog.Int("charts", len(page.Charts)))
 
 	return page
+}
+
+// pageTitle resolves the HTML page title: the configured render.title takes
+// precedence, then the scenario name, then a benchviz default.
+func (b *Builder) pageTitle() string {
+	if b.cfg.Render.Title != "" {
+		return b.cfg.Render.Title
+	}
+
+	if b.scenario.Name != "" {
+		return b.scenario.Name
+	}
+
+	return defaultPageTitle
 }
 
 // buildChart creates a single chart for one metric (possibly two) and one category.
@@ -98,24 +116,37 @@ func (b *Builder) buildChartForMetric(category model.Category, metric config.Met
 	return chart
 }
 
+// Nominal page dimensions used to derive per-chart canvas sizes from the layout config.
+//
+// They are picked so that the common horizontal:2 case yields the go-echarts default
+// canvas (900px × 500px), preserving the historical, known-good layout.
+const (
+	nominalPageWidth  = 1800
+	nominalPageHeight = 1000
+)
+
 // chartSize computes the chart canvas dimensions from the layout config.
 //
-// When Layout.Horizontal > 1, the width is divided among that many charts per row.
-// A small gap is subtracted so charts don't touch.
+// The dimensions must be concrete pixel values: the page uses a flex-wrap layout where
+// each chart renders into an .item nested inside a content-sized .container. A percentage
+// width would resolve against that indefinite container width and collapse to nothing,
+// cramming every chart onto a single row. Pixel widths always resolve, and flex-wrap then
+// packs as many charts per row as the viewport allows.
+//
+// When Layout.Horizontal > 1, the nominal page width is divided among that many charts, so
+// a wider column count produces proportionally narrower charts that fit more per row.
+// Layout.Vertical divides the nominal page height likewise.
 func (b *Builder) chartSize() (width, height string) {
 	cols := b.cfg.Render.Layout.Horizontal
 	if cols <= 1 {
 		return "", "" // use go-echarts defaults (900px × 500px)
 	}
 
-	pct := 100 / cols
-	width = fmt.Sprintf("%d%%", pct)
+	width = fmt.Sprintf("%dpx", nominalPageWidth/cols)
 
 	rows := b.cfg.Render.Layout.Vertical
 	if rows > 1 {
-		// Divide viewport height among rows, capped at a reasonable minimum.
-		vpct := 100 / rows
-		height = fmt.Sprintf("%dvh", vpct)
+		height = fmt.Sprintf("%dpx", nominalPageHeight/rows)
 	}
 
 	return width, height